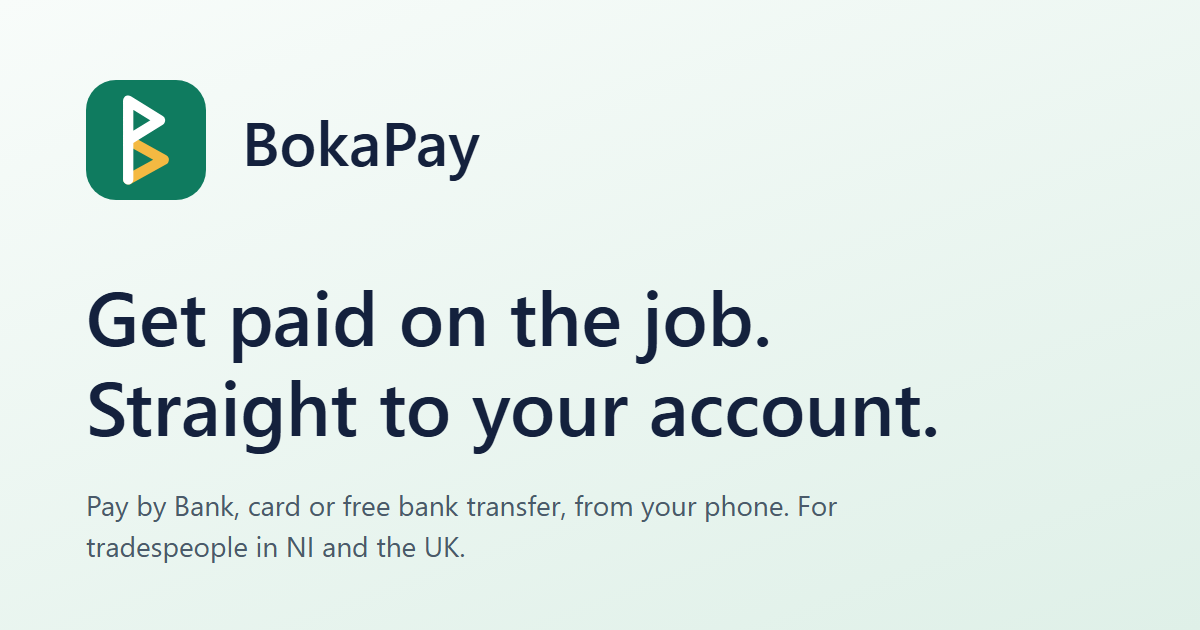
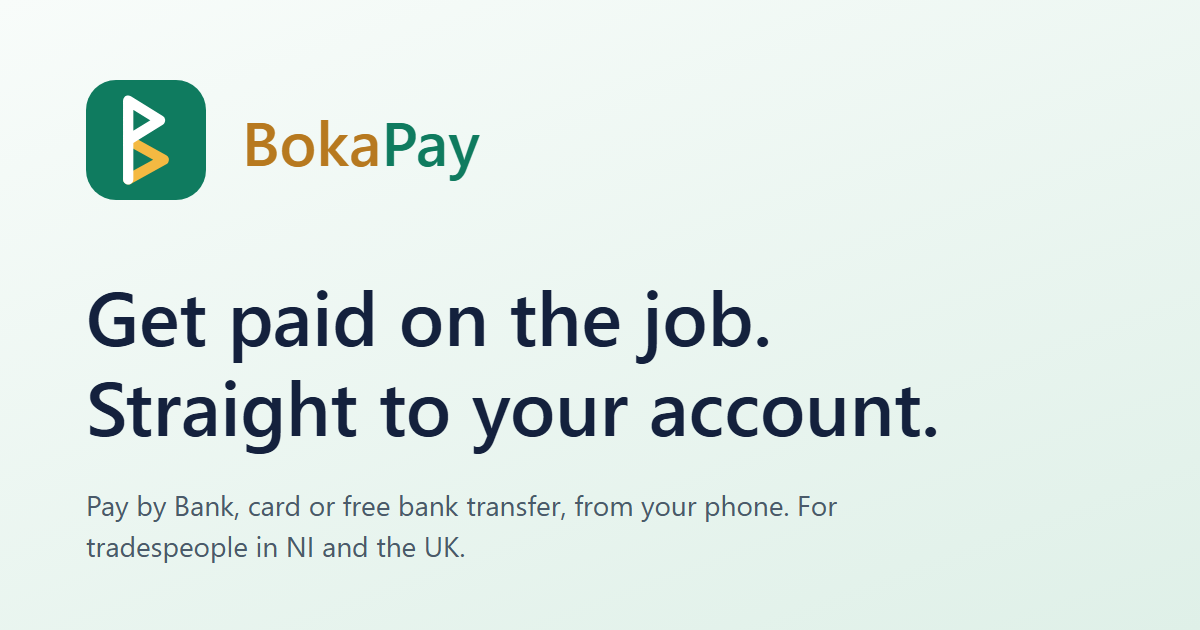
Two-colour wordmark: Boka in orange, Pay in green, on every page and the share image

Changed region(s): [[0.185, 0.181, 0.4008, 0.3016]]

diff --git a/index.html b/index.html
@@ -24,7 +24,7 @@
 <body>
 <header class="site-header">
   <div class="wrap">
-    <a class="wordmark" href="./"><img src="logo.svg" alt="">BokaPay</a>
+    <a class="wordmark" href="./"><img src="logo.svg" alt=""><span aria-label="BokaPay"><span class="wm-boka">Boka</span><span class="wm-pay">Pay</span></span></a>
     <nav class="nav" aria-label="Main">
       <a href="#how">How it works</a>
       <a href="#features">Features</a>
@@ -211,7 +211,7 @@
   </section>
 
   <footer class="sfoot">
-    <a class="wordmark" href="./"><img src="logo.svg" alt="">BokaPay</a>
+    <a class="wordmark" href="./"><img src="logo.svg" alt=""><span aria-label="BokaPay"><span class="wm-boka">Boka</span><span class="wm-pay">Pay</span></span></a>
     <nav class="sfoot-links" aria-label="Footer">
       <a href="#how">How it works</a>
       <a href="#features">Features</a>

diff --git a/styles.css b/styles.css
@@ -177,3 +177,9 @@ footer.sfoot { display: grid; justify-items: center; text-align: center; gap: 0;
 
 .family-label img{height:24px; width:auto; border-radius:0;}
 a.family-label{display:inline-flex; align-items:center; justify-content:center; gap:8px; text-decoration:none;}
+
+/* Two-colour wordmark: "Boka" orange, "Pay" green (lighter shades on dark). */
+.wm-boka { color: #b7791f; }
+.wm-pay { color: var(--accent); }
+@media (prefers-color-scheme: dark) { :root:not([data-theme="light"]) .wm-boka { color: var(--brand-yellow); } }
+:root[data-theme="dark"] .wm-boka { color: var(--brand-yellow); }

diff --git a/terms.html b/terms.html
@@ -14,7 +14,7 @@
 <body>
 <header class="site-header">
   <div class="wrap">
-    <a class="wordmark" href="./"><img src="logo.svg" alt="">BokaPay</a>
+    <a class="wordmark" href="./"><img src="logo.svg" alt=""><span aria-label="BokaPay"><span class="wm-boka">Boka</span><span class="wm-pay">Pay</span></span></a>
     <nav class="nav" aria-label="Main"><a href="./">Home</a><a href="privacy.html">Privacy</a><a href="refunds.html">Refunds</a></nav>
   </div>
 </header>

diff --git a/404.html b/404.html
@@ -13,7 +13,7 @@
 <body>
 <header class="site-header">
   <div class="wrap">
-    <a class="wordmark" href="/"><img src="/logo.svg" alt="">BokaPay</a>
+    <a class="wordmark" href="/"><img src="/logo.svg" alt=""><span aria-label="BokaPay"><span class="wm-boka">Boka</span><span class="wm-pay">Pay</span></span></a>
     <nav class="nav" aria-label="Main"><a href="/">Home</a><a href="/terms.html">Terms</a><a href="/privacy.html">Privacy</a></nav>
   </div>
 </header>

diff --git a/privacy.html b/privacy.html
@@ -14,7 +14,7 @@
 <body>
 <header class="site-header">
   <div class="wrap">
-    <a class="wordmark" href="./"><img src="logo.svg" alt="">BokaPay</a>
+    <a class="wordmark" href="./"><img src="logo.svg" alt=""><span aria-label="BokaPay"><span class="wm-boka">Boka</span><span class="wm-pay">Pay</span></span></a>
     <nav class="nav" aria-label="Main"><a href="./">Home</a><a href="terms.html">Terms</a><a href="refunds.html">Refunds</a></nav>
   </div>
 </header>

diff --git a/refunds.html b/refunds.html
@@ -14,7 +14,7 @@
 <body>
 <header class="site-header">
   <div class="wrap">
-    <a class="wordmark" href="./"><img src="logo.svg" alt="">BokaPay</a>
+    <a class="wordmark" href="./"><img src="logo.svg" alt=""><span aria-label="BokaPay"><span class="wm-boka">Boka</span><span class="wm-pay">Pay</span></span></a>
     <nav class="nav" aria-label="Main"><a href="./">Home</a><a href="terms.html">Terms</a><a href="privacy.html">Privacy</a></nav>
   </div>
 </header>
